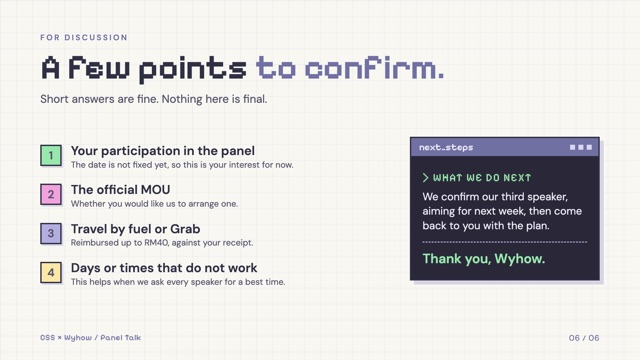
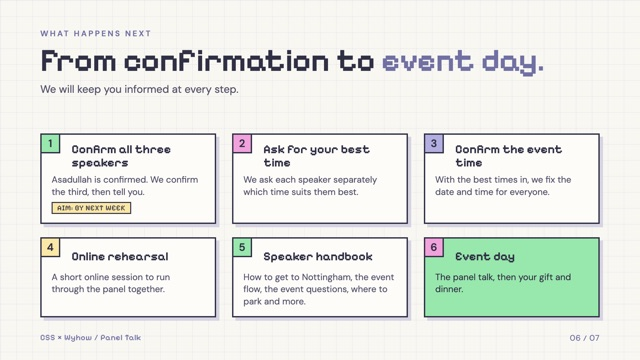
Add the social promotion note and a 'What we need from you' slide with a poster preview
Slide 2 now says we post on LinkedIn and Instagram before and after the event. A new slide 5 asks for the speaker's name, role and company, and picture, with a simple poster preview. The deck is now 7 slides; hub, thumbnails and README updated.

Changed region(s): [[0.0625, 0.3667, 0.9688, 0.8861], [0.0625, 0.0611, 0.8438, 0.3056], [0.875, 0.9167, 0.9375, 0.9472]]

diff --git a/external/01-wyhow-panel/index.html b/external/01-wyhow-panel/index.html
@@ -61,19 +61,19 @@
     .person .bar{height:48px;font-size:24px;padding:0 18px 0 20px}
     .person .lights i{width:13px;height:13px}
     .person{text-align:center}
-    .person .photo,.person .blank{display:block;width:220px;height:220px;margin:34px auto 0;border:4px solid var(--ink);border-radius:var(--shape,50%);box-shadow:8px 8px 0 var(--shadow)}
+    .person .photo,.person .blank{display:block;width:200px;height:200px;margin:30px auto 0;border:4px solid var(--ink);border-radius:var(--shape,50%);box-shadow:8px 8px 0 var(--shadow)}
     .person .photo{object-fit:cover;object-position:center 30%;background:var(--lavender)}
-    .person .blank{display:grid;place-items:center;background:repeating-linear-gradient(45deg,#efedf8,#efedf8 12px,#e6e3f4 12px,#e6e3f4 24px);color:var(--purple);font:600 110px DM,Arial,sans-serif}
-    .person .info{padding:26px 28px 30px}
+    .person .blank{display:grid;place-items:center;background:repeating-linear-gradient(45deg,#efedf8,#efedf8 12px,#e6e3f4 12px,#e6e3f4 24px);color:var(--purple);font:600 100px DM,Arial,sans-serif}
+    .person .info{padding:22px 28px 26px}
     .person h3{font-size:44px;line-height:1.1}
     .person .role{margin-top:6px;font-size:26px;line-height:1.35;color:var(--muted)}
     .person.open{border-style:dashed;background:transparent;box-shadow:none}
     .person.open h3{color:var(--purple)}
     .stamp{position:absolute;right:-16px;top:-20px;z-index:2;padding:3px 16px;background:var(--mint);border:4px solid var(--ink);font:400 24px ClearDigits,Pixelify,monospace;letter-spacing:2px;transform:rotate(3deg)}
     .stamp.invited{background:var(--lavender)}
-    .facts{position:absolute;left:120px;right:120px;top:918px;display:flex;gap:70px;font-size:26px;color:var(--muted)}
-    .facts span{padding-left:20px;border-left:6px solid var(--mint)}
-    .facts b{margin-right:12px;font:400 22px ClearDigits,Pixelify,monospace;letter-spacing:3px;text-transform:uppercase;color:var(--purple)}
+    .facts{position:absolute;left:120px;right:120px;top:874px;display:grid;grid-template-columns:repeat(3,1fr);gap:40px;font-size:25px;line-height:1.3;color:var(--muted)}
+    .facts span{display:block;padding-left:20px;border-left:6px solid var(--mint)}
+    .facts b{display:block;margin-bottom:2px;font:400 21px ClearDigits,Pixelify,monospace;letter-spacing:3px;text-transform:uppercase;color:var(--purple)}
 
     /* Slide 3: MOU */
     .steps{position:absolute;left:120px;top:440px;width:960px;display:grid;gap:36px}
@@ -102,7 +102,25 @@
     .note-strip{position:absolute;left:120px;right:120px;top:884px;display:flex;align-items:center;gap:18px;font-size:27px;color:var(--muted)}
     .note-strip i{flex:none;width:20px;height:20px;background:var(--mint);border:4px solid var(--ink)}
 
-    /* Slide 5: the road to event day */
+    /* Slide 5: what we need from you */
+    .needs{position:absolute;left:120px;top:440px;width:960px;display:grid;gap:34px;list-style:none;padding:0}
+    .need{display:flex;gap:28px;align-items:center}
+    .need .n{flex:none;display:grid;place-items:center;width:74px;height:74px;border:4px solid var(--ink);background:var(--c);box-shadow:6px 6px 0 var(--shadow);font:600 38px DM,Arial,sans-serif}
+    .need b{display:block;font:600 36px/1.2 DM,Arial,sans-serif}
+    .need span{display:block;font-size:26px;line-height:1.3;color:var(--muted)}
+    .poster-win{left:1260px;top:380px;width:480px}
+    .poster-win .body{padding:26px;background:var(--tint,#efedf8)}
+    .poster{display:flex;flex-direction:column;align-items:center;padding:26px 24px 30px;border:3px solid var(--ink);background:var(--card);text-align:center}
+    .poster .top{font:400 18px ClearDigits,Pixelify,monospace;letter-spacing:3px;text-transform:uppercase;color:var(--purple)}
+    .poster .ph{position:relative;width:190px;height:190px;margin-top:24px;border:4px solid var(--ink);border-radius:50%;background:#e6e3f4;box-shadow:7px 7px 0 var(--shadow);overflow:hidden}
+    .poster .ph::before{content:"";position:absolute;left:50%;top:34px;width:70px;height:70px;margin-left:-35px;border-radius:50%;background:var(--lavender)}
+    .poster .ph::after{content:"";position:absolute;left:50%;top:116px;width:140px;height:120px;margin-left:-70px;border-radius:50%;background:var(--lavender)}
+    .poster .who{margin-top:30px;font:600 30px/1.2 DM,Arial,sans-serif}
+    .poster .who i{font-style:normal;font-weight:400;color:var(--purple);margin:0 6px}
+    .poster .where{margin-top:20px;padding-top:14px;width:100%;border-top:2px dashed var(--lavender);font:400 17px ClearDigits,Pixelify,monospace;letter-spacing:2px;color:var(--muted)}
+    .poster-note{position:absolute;left:1260px;top:942px;width:480px;font:400 22px ClearDigits,Pixelify,monospace;letter-spacing:2px;text-align:center;color:var(--purple)}
+
+    /* Slide 6: the road to event day */
     .road{position:absolute;left:120px;right:120px;top:400px;display:grid;grid-template-columns:repeat(3,1fr);gap:40px 48px;list-style:none;padding:0}
     .stop{position:relative;min-height:236px;padding:24px 30px 26px;border:4px solid var(--ink);background:var(--card);box-shadow:10px 10px 0 var(--shadow)}
     .stop .n{position:absolute;left:-4px;top:-4px;display:grid;place-items:center;width:60px;height:60px;border:4px solid var(--ink);background:var(--c,var(--mint));font:600 32px DM,Arial,sans-serif}
@@ -112,7 +130,7 @@
     .stop.final{background:var(--mint)}
     .stop.final p{color:var(--ink)}
 
-    /* Slide 6: points to confirm */
+    /* Slide 7: points to confirm */
     .asks{position:absolute;left:120px;top:430px;width:1020px;display:grid;gap:36px;list-style:none;padding:0}
     .ask{display:flex;gap:28px;align-items:flex-start}
     .ask .n{flex:none;display:grid;place-items:center;width:64px;height:64px;margin-top:4px;border:4px solid var(--ink);background:var(--c);box-shadow:5px 5px 0 var(--shadow);font:600 34px DM,Arial,sans-serif}
@@ -182,8 +200,8 @@
           <div class="info"><h3>To be confirmed</h3><p class="role">Announced once confirmed</p></div>
         </article>
       </div>
-      <p class="facts rise" style="--d:6"><span><b>Venue</b>University of Nottingham campus</span><span><b>Date</b>Set once all three speakers are confirmed</span></p>
-      <div class="footer"><span>CSS × Wyhow / Panel Talk</span><span>02 / 06</span></div>
+      <p class="facts rise" style="--d:6"><span><b>Venue</b>University of Nottingham campus</span><span><b>Date</b>Set once all three speakers are confirmed</span><span><b>Promotion</b>We post on LinkedIn and Instagram, before and after the event</span></p>
+      <div class="footer"><span>CSS × Wyhow / Panel Talk</span><span>02 / 07</span></div>
     </section>
 
     <!-- 3 · MOU -->
@@ -208,7 +226,7 @@
           <div class="sign">Professor<br>University of Nottingham</div>
         </div>
       </div>
-      <div class="footer"><span>CSS × Wyhow / Panel Talk</span><span>03 / 06</span></div>
+      <div class="footer"><span>CSS × Wyhow / Panel Talk</span><span>03 / 07</span></div>
     </section>
 
     <!-- 4 · Speaker hospitality -->
@@ -245,11 +263,38 @@
         </article>
       </div>
       <p class="note-strip rise" style="--d:6"><i aria-hidden="true"></i>To be reimbursed, please send us your receipt: a fuel receipt or a Grab screenshot.</p>
-      <div class="footer"><span>CSS × Wyhow / Panel Talk</span><span>04 / 06</span></div>
+      <div class="footer"><span>CSS × Wyhow / Panel Talk</span><span>04 / 07</span></div>
     </section>
 
-    <!-- 5 · Road to event day -->
-    <section class="slide" aria-label="Slide 5: From confirmation to event day" hidden>
+    <!-- 5 · What we need from you -->
+    <section class="slide" aria-label="Slide 5: What we need from you" hidden>
+      <div class="head">
+        <p class="eyebrow rise">For our promotion</p>
+        <h1 class="rise" style="--d:1">What we need <em>from you.</em></h1>
+        <p class="lede rise" style="--d:2">We share every speaker on LinkedIn and Instagram, before and after the event.</p>
+      </div>
+      <ol class="needs">
+        <li class="need rise" style="--d:3"><span class="n" style="--c:var(--mint)">1</span><div><b>Your name</b><span>As you would like it to appear.</span></div></li>
+        <li class="need rise" style="--d:4"><span class="n" style="--c:var(--pink)">2</span><div><b>Your role and company name</b><span>Your job title and where you work.</span></div></li>
+        <li class="need rise" style="--d:5"><span class="n" style="--c:var(--lavender)">3</span><div><b>Your picture</b><span>A clear, recent photo of you.</span></div></li>
+      </ol>
+      <div class="window poster-win pop" style="--d:4" aria-hidden="true">
+        <div class="bar"><span>poster_preview</span><span class="lights"><i></i><i></i><i></i></span></div>
+        <div class="body">
+          <div class="poster">
+            <p class="top">CSS Panel Talk</p>
+            <div class="ph"></div>
+            <p class="who">Name<i>|</i>Role, Company</p>
+            <p class="where">LINKEDIN · INSTAGRAM</p>
+          </div>
+        </div>
+      </div>
+      <p class="poster-note rise" style="--d:6">A simple preview of the poster</p>
+      <div class="footer"><span>CSS × Wyhow / Panel Talk</span><span>05 / 07</span></div>
+    </section>
+
+    <!-- 6 · Road to event day -->
+    <section class="slide" aria-label="Slide 6: From confirmation to event day" hidden>
       <div class="head" style="top:84px">
         <p class="eyebrow rise">What happens next</p>
         <h1 class="rise" style="--d:1;font-size:96px;margin:18px 0 16px">From confirmation to <em>event day.</em></h1>
@@ -263,11 +308,11 @@
         <li class="stop pop" style="--d:7"><span class="n" style="--c:var(--mint)">5</span><h3>Speaker handbook</h3><p>How to get to Nottingham, the event flow, the event questions, where to park and more.</p></li>
         <li class="stop final pop" style="--d:8"><span class="n" style="--c:var(--pink)">6</span><h3>Event day</h3><p>The panel talk, then your gift and dinner.</p></li>
       </ol>
-      <div class="footer"><span>CSS × Wyhow / Panel Talk</span><span>05 / 06</span></div>
+      <div class="footer"><span>CSS × Wyhow / Panel Talk</span><span>06 / 07</span></div>
     </section>
 
-    <!-- 6 · Points to confirm -->
-    <section class="slide" aria-label="Slide 6: Points to confirm" hidden>
+    <!-- 7 · Points to confirm -->
+    <section class="slide" aria-label="Slide 7: Points to confirm" hidden>
       <div class="head">
         <p class="eyebrow rise">For discussion</p>
         <h1 class="rise" style="--d:1">A few points <em>to confirm.</em></h1>
@@ -287,7 +332,7 @@
           <p class="thanks">Thank you, Wyhow.</p>
         </div>
       </div>
-      <div class="footer"><span>CSS × Wyhow / Panel Talk</span><span>06 / 06</span></div>
+      <div class="footer"><span>CSS × Wyhow / Panel Talk</span><span>07 / 07</span></div>
     </section>
 
   </main>

diff --git a/index.html b/index.html
@@ -100,8 +100,8 @@
           <p class="tag">SPEAKER MEETING · PANEL TALK</p>
           <h3><a href="external/01-wyhow-panel/">Panel talk with Wyhow</a></h3>
         <p class="note">Slides for our meeting with Wyhow, a Solution Engineer at Microsoft we have invited to speak at our panel talk.</p>
-          <ol class="thumbs"><li><a href="external/01-wyhow-panel/#1" title="CSS × Wyhow" aria-label="Panel talk with Wyhow, slide 1: CSS × Wyhow"><span class="shot"><img src="external/thumbs/01-1.jpg" alt="" loading="lazy" width="640" height="360"><b>01</b></span><span class="cap">CSS × Wyhow</span></a></li><li><a href="external/01-wyhow-panel/#2" title="The panel" aria-label="Panel talk with Wyhow, slide 2: The panel"><span class="shot"><img src="external/thumbs/01-2.jpg" alt="" loading="lazy" width="640" height="360"><b>02</b></span><span class="cap">The panel</span></a></li><li><a href="external/01-wyhow-panel/#3" title="Official MOU" aria-label="Panel talk with Wyhow, slide 3: Official MOU"><span class="shot"><img src="external/thumbs/01-3.jpg" alt="" loading="lazy" width="640" height="360"><b>03</b></span><span class="cap">Official MOU</span></a></li><li><a href="external/01-wyhow-panel/#4" title="Looking after speakers" aria-label="Panel talk with Wyhow, slide 4: Looking after speakers"><span class="shot"><img src="external/thumbs/01-4.jpg" alt="" loading="lazy" width="640" height="360"><b>04</b></span><span class="cap">Looking after speakers</span></a></li><li><a href="external/01-wyhow-panel/#5" title="From confirmation to event day" aria-label="Panel talk with Wyhow, slide 5: From confirmation to event day"><span class="shot"><img src="external/thumbs/01-5.jpg" alt="" loading="lazy" width="640" height="360"><b>05</b></span><span class="cap">From confirmation to event day</span></a></li><li><a href="external/01-wyhow-panel/#6" title="Points to confirm" aria-label="Panel talk with Wyhow, slide 6: Points to confirm"><span class="shot"><img src="external/thumbs/01-6.jpg" alt="" loading="lazy" width="640" height="360"><b>06</b></span><span class="cap">Points to confirm</span></a></li></ol>
-          <div class="deck-foot"><span class="count">6 SLIDES</span><a class="open" href="external/01-wyhow-panel/">Open deck →</a></div>
+          <ol class="thumbs"><li><a href="external/01-wyhow-panel/#1" title="CSS × Wyhow" aria-label="Panel talk with Wyhow, slide 1: CSS × Wyhow"><span class="shot"><img src="external/thumbs/01-1.jpg" alt="" loading="lazy" width="640" height="360"><b>01</b></span><span class="cap">CSS × Wyhow</span></a></li><li><a href="external/01-wyhow-panel/#2" title="The panel" aria-label="Panel talk with Wyhow, slide 2: The panel"><span class="shot"><img src="external/thumbs/01-2.jpg" alt="" loading="lazy" width="640" height="360"><b>02</b></span><span class="cap">The panel</span></a></li><li><a href="external/01-wyhow-panel/#3" title="Official MOU" aria-label="Panel talk with Wyhow, slide 3: Official MOU"><span class="shot"><img src="external/thumbs/01-3.jpg" alt="" loading="lazy" width="640" height="360"><b>03</b></span><span class="cap">Official MOU</span></a></li><li><a href="external/01-wyhow-panel/#4" title="Looking after speakers" aria-label="Panel talk with Wyhow, slide 4: Looking after speakers"><span class="shot"><img src="external/thumbs/01-4.jpg" alt="" loading="lazy" width="640" height="360"><b>04</b></span><span class="cap">Looking after speakers</span></a></li><li><a href="external/01-wyhow-panel/#5" title="What we need from you" aria-label="Panel talk with Wyhow, slide 5: What we need from you"><span class="shot"><img src="external/thumbs/01-5.jpg" alt="" loading="lazy" width="640" height="360"><b>05</b></span><span class="cap">What we need from you</span></a></li><li><a href="external/01-wyhow-panel/#6" title="From confirmation to event day" aria-label="Panel talk with Wyhow, slide 6: From confirmation to event day"><span class="shot"><img src="external/thumbs/01-6.jpg" alt="" loading="lazy" width="640" height="360"><b>06</b></span><span class="cap">From confirmation to event day</span></a></li><li><a href="external/01-wyhow-panel/#7" title="Points to confirm" aria-label="Panel talk with Wyhow, slide 7: Points to confirm"><span class="shot"><img src="external/thumbs/01-7.jpg" alt="" loading="lazy" width="640" height="360"><b>07</b></span><span class="cap">Points to confirm</span></a></li></ol>
+          <div class="deck-foot"><span class="count">7 SLIDES</span><a class="open" href="external/01-wyhow-panel/">Open deck →</a></div>
         </div>
       </article>
         </div>

diff --git a/README.md b/README.md
@@ -21,7 +21,7 @@ Regular slot: Tuesdays at 6 PM, under an hour.
 
 | # | Deck | Folder |
 |---|------|--------|
-| 01 | Computer Science Society Panel Talk, CSS × Wyhow: the deck we show Wyhow (Microsoft) when we meet to invite him to speak (6 slides: cover, the panel, optional MOU, travel reimbursement, gift and dinner, the road to event day, questions) | [`external/01-wyhow-panel/`](external/01-wyhow-panel/) |
+| 01 | Computer Science Society Panel Talk, CSS × Wyhow: the deck we show Wyhow (Microsoft) when we meet to invite him to speak (7 slides: cover, the panel and our LinkedIn/Instagram promotion, optional MOU, speaker hospitality with the RM40 travel cap, what we need from the speaker with a poster preview, the road to event day, points to confirm) | [`external/01-wyhow-panel/`](external/01-wyhow-panel/) |
 
 It is a single self-contained file with the same keys as the weeklies. Speakers: Asadullah (Data Scientist, Cognizant, confirmed), Wyhow (Solution Engineer, Microsoft, invited) and a third speaker still to be confirmed; update slide 2 and the thumbnails when that changes.
 
